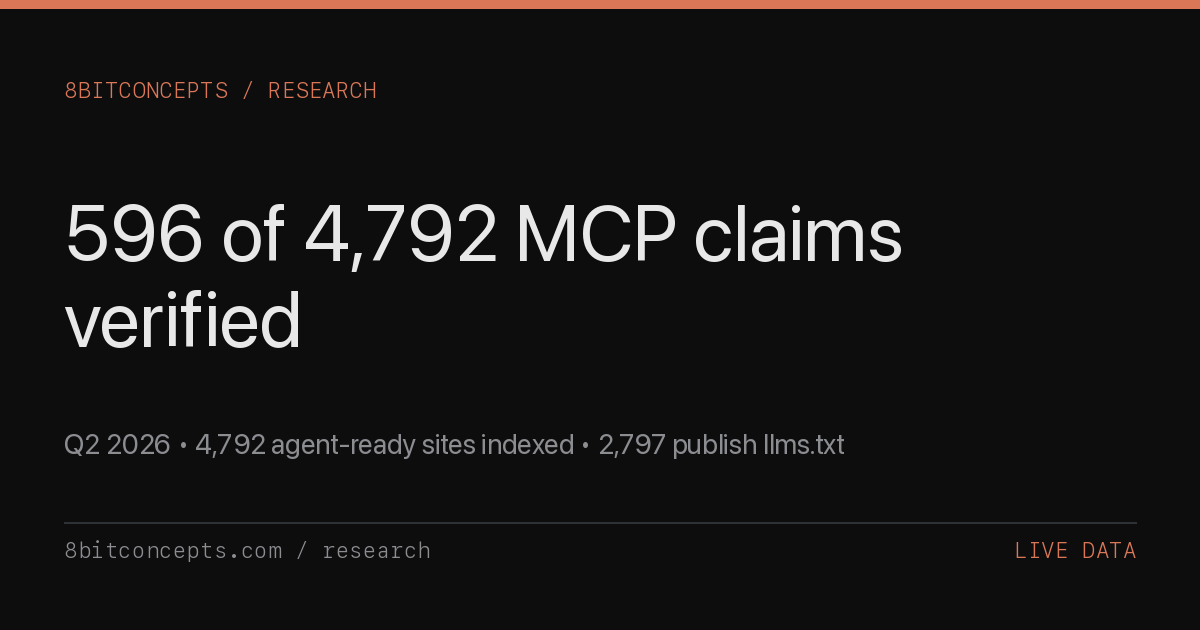
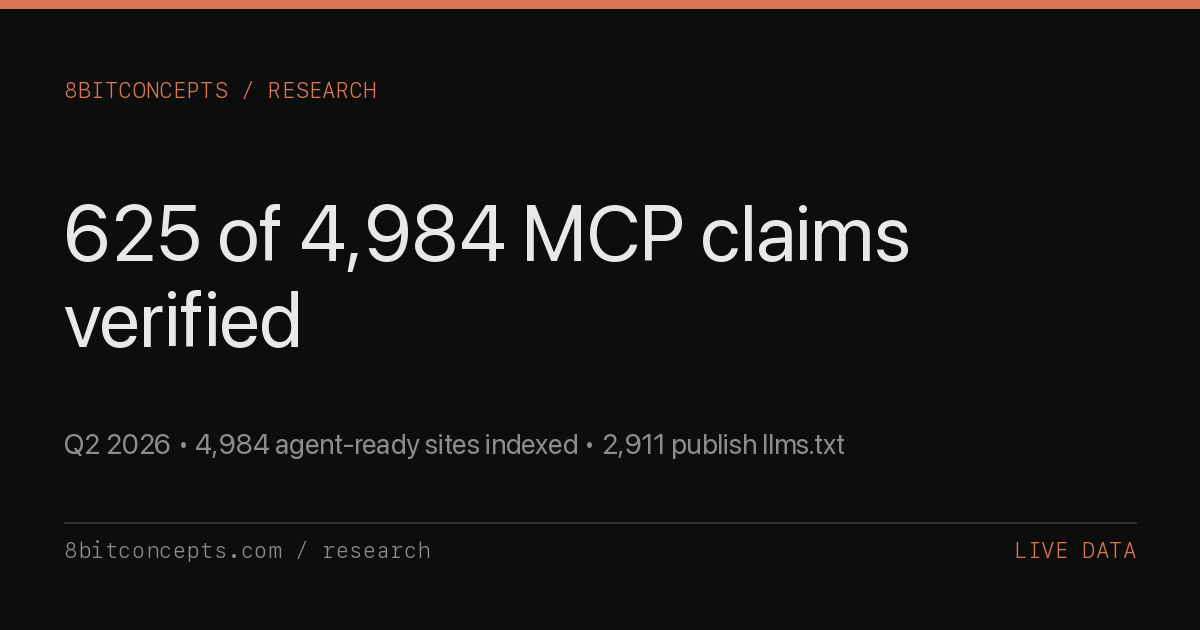
mcp-health: auto-regenerate 2026-08-10

Changed region(s): [[0.0308, 0.3016, 0.7708, 0.4222], [0.185, 0.6635, 0.5858, 0.7238], [0.6167, 0.6937, 0.6783, 0.7238]]

diff --git a/research/q2-2026-mcp-ecosystem-health.html b/research/q2-2026-mcp-ecosystem-health.html
@@ -5,11 +5,11 @@
   <meta name="viewport" content="width=device-width, initial-scale=1.0" />
   <meta name="referrer" content="strict-origin-when-cross-origin" />
   <meta name="color-scheme" content="dark light" />
-  <meta name="last-updated" content="2026-08-03" />
+  <meta name="last-updated" content="2026-08-10" />
   <title>Q2 2026 MCP Ecosystem Health -- 8bitconcepts</title>
-  <meta name="description" content="Live MCP ecosystem health: 4,792 agent-ready sites indexed, 596 (12.4%) MCP-verified via JSON-RPC handshake. 2,797 publish llms.txt, 730 publish OpenAPI. Category breakdown, newly-indexed servers, gaps." />
+  <meta name="description" content="Live MCP ecosystem health: 4,984 agent-ready sites indexed, 625 (12.5%) MCP-verified via JSON-RPC handshake. 2,911 publish llms.txt, 770 publish OpenAPI. Category breakdown, newly-indexed servers, gaps." />
   <meta property="og:title" content="Q2 2026 MCP Ecosystem Health -- 8bitconcepts" />
-  <meta property="og:description" content="596 of 4,792 indexed agent-ready sites (12.4%) pass a live JSON-RPC handshake. Most MCP-positive candidates do not verify as working endpoints. Category breakdown + newly-verified servers from NothingHumanSearch." />
+  <meta property="og:description" content="625 of 4,984 indexed agent-ready sites (12.5%) pass a live JSON-RPC handshake. Most MCP-positive candidates do not verify as working endpoints. Category breakdown + newly-verified servers from NothingHumanSearch." />
   <meta property="og:type" content="article" />
   <meta property="og:url" content="https://8bitconcepts.com/research/q2-2026-mcp-ecosystem-health.html" />
   <meta property="og:image" content="https://8bitconcepts.com/research/og/q2-2026-mcp-ecosystem-health.png" />
@@ -17,7 +17,7 @@
   <meta property="og:image:height" content="630" />
   <meta name="twitter:card" content="summary_large_image" />
   <meta name="twitter:title" content="Q2 2026 MCP Ecosystem Health" />
-  <meta name="twitter:description" content="MCP reality check: 596/4,792 sites survive a real JSON-RPC handshake. Live data from nothumansearch.ai, 2026-08-03." />
+  <meta name="twitter:description" content="MCP reality check: 625/4,984 sites survive a real JSON-RPC handshake. Live data from nothumansearch.ai, 2026-08-10." />
   <meta name="twitter:image" content="https://8bitconcepts.com/research/og/q2-2026-mcp-ecosystem-health.png" />
   <link rel="canonical" href="https://8bitconcepts.com/research/q2-2026-mcp-ecosystem-health.html" />
   <link rel="preconnect" href="https://fonts.googleapis.com" />
@@ -434,10 +434,10 @@
     "@context": "https://schema.org",
     "@type": "Article",
     "headline": "Q2 2026 MCP Ecosystem Health",
-    "description": "Live MCP ecosystem audit from NothingHumanSearch: 4,792 agent-ready sites indexed, only 596 (12.4%) MCP-verified via live JSON-RPC handshake. Category breakdown, top MCP servers, newly-indexed this week, and gaps in regulated verticals.",
+    "description": "Live MCP ecosystem audit from NothingHumanSearch: 4,984 agent-ready sites indexed, only 625 (12.5%) MCP-verified via live JSON-RPC handshake. Category breakdown, top MCP servers, newly-indexed this week, and gaps in regulated verticals.",
     "url": "https://8bitconcepts.com/research/q2-2026-mcp-ecosystem-health.html",
     "datePublished": "2026-04-17",
-    "dateModified": "2026-08-03",
+    "dateModified": "2026-08-10",
     "author": {"@type": "Organization", "name": "8bitconcepts", "url": "https://8bitconcepts.com"},
     "publisher": {"@type": "Organization", "name": "8bitconcepts", "url": "https://8bitconcepts.com"},
     "image": "https://8bitconcepts.com/research/og/q2-2026-mcp-ecosystem-health.png",
@@ -477,10 +477,10 @@
 
     <h1>Q2 2026 MCP Ecosystem Health</h1>
 
-    <p class="subtitle">As of 2026-08-03, 4,792 agent-ready sites are indexed on NothingHumanSearch, but only 596 (12.4%) survive a real JSON-RPC handshake to their /mcp endpoint. The rest did not verify as working MCP endpoints in this crawl. Live data pulled from <a href="https://nothumansearch.ai/digest.json">nothumansearch.ai/digest.json</a>.</p>
+    <p class="subtitle">As of 2026-08-10, 4,984 agent-ready sites are indexed on NothingHumanSearch, but only 625 (12.5%) survive a real JSON-RPC handshake to their /mcp endpoint. The rest did not verify as working MCP endpoints in this crawl. Live data pulled from <a href="https://nothumansearch.ai/digest.json">nothumansearch.ai/digest.json</a>.</p>
 
     <div class="meta">
-      <span class="meta-date">2026-08-03</span>
+      <span class="meta-date">2026-08-10</span>
       <span class="meta-tag">Live Data</span>
       <span class="meta-read">~850 words</span>
     </div>
@@ -489,19 +489,19 @@
 
       <h2>Executive summary</h2>
 
-      <p>NothingHumanSearch has been crawling the web for agent-readiness signals since launch, and the numbers tell a consistent story about the gap between claiming MCP support and shipping it. As of 2026-08-03 the index holds 4,792 sites with at least one agent-discovery signal (llms.txt, ai-plugin.json, OpenAPI, or an MCP manifest). Of those, 596 &mdash; 12.4% &mdash; pass a live JSON-RPC probe against their declared /mcp endpoint. The remaining 4,196 sites (87.6%) did not verify as working MCP endpoints in this crawl. That is not evidence of intent. It means the crawler found an MCP-positive or agent-discovery signal, then the live probe could not complete the <code>initialize</code> round-trip.</p>
+      <p>NothingHumanSearch has been crawling the web for agent-readiness signals since launch, and the numbers tell a consistent story about the gap between claiming MCP support and shipping it. As of 2026-08-10 the index holds 4,984 sites with at least one agent-discovery signal (llms.txt, ai-plugin.json, OpenAPI, or an MCP manifest). Of those, 625 &mdash; 12.5% &mdash; pass a live JSON-RPC probe against their declared /mcp endpoint. The remaining 4,359 sites (87.5%) did not verify as working MCP endpoints in this crawl. That is not evidence of intent. It means the crawler found an MCP-positive or agent-discovery signal, then the live probe could not complete the <code>initialize</code> round-trip.</p>
 
       <div class="stat-row">
         <div class="stat-box">
-          <div class="stat-num">4,792</div>
-          <div class="stat-label">agent-ready sites indexed on NothingHumanSearch (2026-08-03)</div>
+          <div class="stat-num">4,984</div>
+          <div class="stat-label">agent-ready sites indexed on NothingHumanSearch (2026-08-10)</div>
         </div>
         <div class="stat-box">
-          <div class="stat-num">596</div>
-          <div class="stat-label">pass a live JSON-RPC MCP handshake &mdash; 12.4% of the index</div>
+          <div class="stat-num">625</div>
+          <div class="stat-label">pass a live JSON-RPC MCP handshake &mdash; 12.5% of the index</div>
         </div>
         <div class="stat-box">
-          <div class="stat-num">2,797</div>
+          <div class="stat-num">2,911</div>
           <div class="stat-label">publish <code>llms.txt</code> &mdash; 58.4% of the index</div>
         </div>
       </div>
@@ -510,7 +510,7 @@
 
       <p>Static scanners &mdash; the ones that produce most of the MCP directory listings you see today &mdash; treat a string match for <code>mcp</code> in <code>llms.txt</code> or a link to <code>/.well-known/mcp.json</code> as a positive signal. That's how you end up with directories claiming 10,000+ MCP servers when the actual live count is smaller by an order of magnitude. A real check has to open a connection, send <code>{"method": "initialize"}</code>, wait for a protocol handshake, and confirm the server responds with a valid <code>result</code> block citing a <code>protocolVersion</code>. Anything short of that is a citation, not an implementation.</p>
 
-      <p>NHS's <code>verify_mcp</code> tool (published as part of the NHS MCP server at <a href="https://nothumansearch.ai/mcp">nothumansearch.ai/mcp</a>) does exactly this live-probe for any URL you hand it. When we recrawled the full index in April 2026 with the probe turned on, the verified-MCP count stayed stable around 596 even as the total indexed population kept climbing. The gap between MCP-positive discovery surfaces and endpoints that complete a live handshake is widening, not narrowing &mdash; which is the opposite of what the marketing cycle would have you believe.</p>
+      <p>NHS's <code>verify_mcp</code> tool (published as part of the NHS MCP server at <a href="https://nothumansearch.ai/mcp">nothumansearch.ai/mcp</a>) does exactly this live-probe for any URL you hand it. When we recrawled the full index in April 2026 with the probe turned on, the verified-MCP count stayed stable around 625 even as the total indexed population kept climbing. The gap between MCP-positive discovery surfaces and endpoints that complete a live handshake is widening, not narrowing &mdash; which is the opposite of what the marketing cycle would have you believe.</p>
 
       <p>This matters for anyone building an agent. If you rely on a static MCP directory to decide which tools your agent should discover at runtime, you will waste connections and context tokens on dead endpoints. The 90%+ unverified cohort is not proof of bad faith &mdash; it can include stale docs, misconfigured reverse proxies, auth walls, wrong endpoint paths, scanner false positives, and manifests that reference endpoints the author has not wired up. But for an autonomous agent, the failure mode is the same: a call that eats latency, fails, and doesn't advance the task.</p>
 
@@ -528,14 +528,14 @@
           </tr>
         </thead>
         <tbody>
-          <tr><td><a href="https://nothumansearch.ai/site/eqbuilder.dev">eqbuilder.dev</a></td><td>Marz Greta-Lock Network</td><td class="num">100</td><td>llms.txt, ai-plugin.json, OpenAPI, structured API, MCP handshake, AI-friendly robots.txt, Schema.org</td></tr>
           <tr><td><a href="https://nothumansearch.ai/site/agentdomain.xyz">agentdomain.xyz</a></td><td>Agent Community</td><td class="num">100</td><td>llms.txt, ai-plugin.json, OpenAPI, structured API, MCP handshake, AI-friendly robots.txt, Schema.org</td></tr>
+          <tr><td><a href="https://nothumansearch.ai/site/dexi.net">dexi.net</a></td><td>Dexi</td><td class="num">100</td><td>llms.txt, ai-plugin.json, OpenAPI, structured API, MCP handshake, AI-friendly robots.txt, Schema.org</td></tr>
+          <tr><td><a href="https://nothumansearch.ai/site/compliapi.com">compliapi.com</a></td><td>CompliAPI</td><td class="num">100</td><td>llms.txt, ai-plugin.json, OpenAPI, structured API, MCP handshake, AI-friendly robots.txt, Schema.org</td></tr>
+          <tr><td><a href="https://nothumansearch.ai/site/eqbuilder.dev">eqbuilder.dev</a></td><td>eqbuilder.dev</td><td class="num">100</td><td>llms.txt, ai-plugin.json, OpenAPI, structured API, MCP handshake, AI-friendly robots.txt, Schema.org</td></tr>
           <tr><td><a href="https://nothumansearch.ai/site/shieldz.cash">shieldz.cash</a></td><td>Crypto Payment Gateway, non-custodial, $0 fees · Shieldz</td><td class="num">100</td><td>llms.txt, ai-plugin.json, OpenAPI, structured API, MCP handshake, AI-friendly robots.txt, Schema.org</td></tr>
           <tr><td><a href="https://nothumansearch.ai/site/newmexicoliteracyproject.org">newmexicoliteracyproject.org</a></td><td>Donate Books in Albuquerque</td><td class="num">100</td><td>llms.txt, ai-plugin.json, OpenAPI, structured API, MCP handshake, AI-friendly robots.txt, Schema.org</td></tr>
           <tr><td><a href="https://nothumansearch.ai/site/hlido.eu">hlido.eu</a></td><td>Hlido &amp;middot; Independent AI agent trust scores &amp; reliability reviews</td><td class="num">100</td><td>llms.txt, ai-plugin.json, OpenAPI, structured API, MCP handshake, AI-friendly robots.txt, Schema.org</td></tr>
           <tr><td><a href="https://nothumansearch.ai/site/agentshare.dev">agentshare.dev</a></td><td>AgentShare</td><td class="num">100</td><td>llms.txt, ai-plugin.json, OpenAPI, structured API, MCP handshake, AI-friendly robots.txt, Schema.org</td></tr>
-          <tr><td><a href="https://nothumansearch.ai/site/primitive.dev">primitive.dev</a></td><td>primitive.dev: email for AI agents</td><td class="num">100</td><td>llms.txt, ai-plugin.json, OpenAPI, structured API, MCP handshake, AI-friendly robots.txt, Schema.org</td></tr>
-          <tr><td><a href="https://nothumansearch.ai/site/gitdealflow.com">gitdealflow.com</a></td><td>GitDealFlow</td><td class="num">100</td><td>llms.txt, ai-plugin.json, OpenAPI, structured API, MCP handshake, AI-friendly robots.txt, Schema.org</td></tr>
         </tbody>
       </table>
 
@@ -566,7 +566,7 @@
 
       <h2>Top categories by indexed count</h2>
 
-      <p>Across verified MCP servers and the broader agent-ready population, the category distribution is heavily concentrated. <strong>Developer tools</strong> alone accounts for 1,467 sites (30.6% of the index). AI-native tools follow closely &mdash; unsurprising given that MCP emerged from the AI-tools ecosystem. After that, category density drops off a cliff.</p>
+      <p>Across verified MCP servers and the broader agent-ready population, the category distribution is heavily concentrated. <strong>Developer tools</strong> alone accounts for 1,527 sites (30.6% of the index). AI-native tools follow closely &mdash; unsurprising given that MCP emerged from the AI-tools ecosystem. After that, category density drops off a cliff.</p>
 
       <table class="data-table">
         <thead>
@@ -577,15 +577,15 @@
           </tr>
         </thead>
         <tbody>
-          <tr><td>Developer tools</td><td class="num">1,467</td><td class="num">30.6%</td></tr>
-          <tr><td>AI-native tools</td><td class="num">1,020</td><td class="num">21.3%</td></tr>
-          <tr><td>Data / analytics</td><td class="num">437</td><td class="num">9.1%</td></tr>
-          <tr><td>Finance / fintech</td><td class="num">213</td><td class="num">4.4%</td></tr>
-          <tr><td>Productivity</td><td class="num">169</td><td class="num">3.5%</td></tr>
-          <tr><td>E-commerce</td><td class="num">156</td><td class="num">3.3%</td></tr>
-          <tr><td>Communication</td><td class="num">141</td><td class="num">2.9%</td></tr>
-          <tr><td>Security</td><td class="num">120</td><td class="num">2.5%</td></tr>
-          <tr><td>Health / medical</td><td class="num">60</td><td class="num">1.3%</td></tr>
+          <tr><td>Developer tools</td><td class="num">1,527</td><td class="num">30.6%</td></tr>
+          <tr><td>AI-native tools</td><td class="num">1,061</td><td class="num">21.3%</td></tr>
+          <tr><td>Data / analytics</td><td class="num">459</td><td class="num">9.2%</td></tr>
+          <tr><td>Finance / fintech</td><td class="num">216</td><td class="num">4.3%</td></tr>
+          <tr><td>Productivity</td><td class="num">172</td><td class="num">3.5%</td></tr>
+          <tr><td>E-commerce</td><td class="num">164</td><td class="num">3.3%</td></tr>
+          <tr><td>Communication</td><td class="num">148</td><td class="num">3.0%</td></tr>
+          <tr><td>Security</td><td class="num">126</td><td class="num">2.5%</td></tr>
+          <tr><td>Health / medical</td><td class="num">61</td><td class="num">1.2%</td></tr>
           <tr><td>Jobs / hiring</td><td class="num">29</td><td class="num">0.6%</td></tr>
         </tbody>
       </table>
@@ -604,22 +604,22 @@
           </tr>
         </thead>
         <tbody>
-          <tr><td><a href="https://nothumansearch.ai/site/eqbuilder.dev">eqbuilder.dev</a></td><td>Marz Greta-Lock Network</td><td>Developer tools</td><td class="num">100</td></tr>
-          <tr><td><a href="https://nothumansearch.ai/site/shieldz.cash">shieldz.cash</a></td><td>Crypto Payment Gateway, non-custodial, $0 fees · Shieldz</td><td>Finance / fintech</td><td class="num">100</td></tr>
-          <tr><td><a href="https://nothumansearch.ai/site/newmexicoliteracyproject.org">newmexicoliteracyproject.org</a></td><td>Donate Books in Albuquerque</td><td>Uncategorized</td><td class="num">100</td></tr>
-          <tr><td><a href="https://nothumansearch.ai/site/hlido.eu">hlido.eu</a></td><td>Hlido &amp;middot; Independent AI agent trust scores &amp; reliability reviews</td><td>AI-native tools</td><td class="num">100</td></tr>
-          <tr><td><a href="https://nothumansearch.ai/site/agentshare.dev">agentshare.dev</a></td><td>AgentShare</td><td>AI-native tools</td><td class="num">100</td></tr>
-          <tr><td><a href="https://nothumansearch.ai/site/primitive.dev">primitive.dev</a></td><td>primitive.dev: email for AI agents</td><td>Developer tools</td><td class="num">100</td></tr>
-          <tr><td><a href="https://nothumansearch.ai/site/gitdealflow.com">gitdealflow.com</a></td><td>GitDealFlow</td><td>Uncategorized</td><td class="num">100</td></tr>
-          <tr><td><a href="https://nothumansearch.ai/site/dominion-observatory.sgdata.workers.dev">dominion-observatory.sgdata.workers.dev</a></td><td>Dominion Observatory</td><td>Developer tools</td><td class="num">100</td></tr>
-          <tr><td><a href="https://nothumansearch.ai/site/x711.io">x711.io</a></td><td>x711</td><td>AI-native tools</td><td class="num">100</td></tr>
-          <tr><td><a href="https://nothumansearch.ai/site/agentmuseum.org">agentmuseum.org</a></td><td>The Agent Museum</td><td>Uncategorized</td><td class="num">100</td></tr>
+          <tr><td><a href="https://nothumansearch.ai/site/dexi.net">dexi.net</a></td><td>Dexi</td><td>Data / analytics</td><td class="num">100</td></tr>
+          <tr><td><a href="https://nothumansearch.ai/site/compliapi.com">compliapi.com</a></td><td>CompliAPI</td><td>Security</td><td class="num">100</td></tr>
+          <tr><td><a href="https://nothumansearch.ai/site/mostexpensivewatches.net">mostexpensivewatches.net</a></td><td>MostExpensiveWatches</td><td>Uncategorized</td><td class="num">95</td></tr>
+          <tr><td><a href="https://nothumansearch.ai/site/simulator.company">simulator.company</a></td><td>Simulator.Company</td><td>Productivity</td><td class="num">80</td></tr>
+          <tr><td><a href="https://nothumansearch.ai/site/dexpaprika.com">dexpaprika.com</a></td><td>DEX Tracker: Explore liquidity pools and DEXes</td><td>Finance / fintech</td><td class="num">80</td></tr>
+          <tr><td><a href="https://nothumansearch.ai/site/localgov.jp">localgov.jp</a></td><td>LocalGov.jp</td><td>Uncategorized</td><td class="num">80</td></tr>
+          <tr><td><a href="https://nothumansearch.ai/site/allmcps.com">allmcps.com</a></td><td>AllMCPs</td><td>Developer tools</td><td class="num">80</td></tr>
+          <tr><td><a href="https://nothumansearch.ai/site/vaaya.ai">vaaya.ai</a></td><td>Vaaya: Turn your GitHub profile into Credit</td><td>AI-native tools</td><td class="num">75</td></tr>
+          <tr><td><a href="https://nothumansearch.ai/site/stormy.ai">stormy.ai</a></td><td>Stormy</td><td>AI-native tools</td><td class="num">75</td></tr>
+          <tr><td><a href="https://nothumansearch.ai/site/synapselayer.org">synapselayer.org</a></td><td>Synapse Layer</td><td>Developer tools</td><td class="num">75</td></tr>
         </tbody>
       </table>
 
       <h2>Gaps in the ecosystem</h2>
 
-      <p>The gap that matters for builders: regulated high-value verticals are still thinly represented. Finance has 213 sites, health has 60, and education has 20. These are the same verticals where agents would deliver the most leverage per call &mdash; underwriting assistance, clinical documentation, degree-audit lookups &mdash; and they are the verticals where the MCP ecosystem is the least mature. Jobs (29) and news (10) round out the long tail. If you are deciding where to ship an MCP server and you want reach-per-server rather than defensibility through a crowd, the signal is clear: any vertical below 120 indexed sites is green field.</p>
+      <p>The gap that matters for builders: regulated high-value verticals are still thinly represented. Finance has 216 sites, health has 61, and education has 20. These are the same verticals where agents would deliver the most leverage per call &mdash; underwriting assistance, clinical documentation, degree-audit lookups &mdash; and they are the verticals where the MCP ecosystem is the least mature. Jobs (29) and news (10) round out the long tail. If you are deciding where to ship an MCP server and you want reach-per-server rather than defensibility through a crowd, the signal is clear: any vertical below 126 indexed sites is green field.</p>
 
       <div class="callout">
         <p>The pattern is consistent across every index we maintain: the teams that ship real MCP endpoints are a small fraction of the teams that claim MCP support. For builders, that gap is an opportunity &mdash; the verticals that are thin today will not stay thin for long.</p>
@@ -629,7 +629,7 @@
 
       <p>NHS crawls submitted URLs and auto-discovered candidates from public sources (awesome-mcp-servers, PulseMCP, llmstxt.site, and a handful of curated feeds), then scores each site against seven weighted signals: <code>llms.txt</code> present and parseable; <code>ai-plugin.json</code> at <code>/.well-known/</code>; an OpenAPI or AsyncAPI spec at a discoverable path; an MCP manifest; a live JSON-RPC MCP handshake; documented rate-limit and auth headers; and an accessible structured API response. Sites are re-crawled weekly. Scores range 0-100; any score above 75 corresponds to a site that an autonomous agent can realistically integrate without human help. The full probe methodology is open-source at <a href="https://nothumansearch.ai/methodology">nothumansearch.ai/methodology</a>.</p>
 
-      <p>Weekly submission volume is running at 22 candidates for the week starting 2026-07-27, most from autonomous discovery agents rather than human submissions.</p>
+      <p>Weekly submission volume is running at 33 candidates for the week starting 2026-08-03, most from autonomous discovery agents rather than human submissions.</p>
 
       <p><strong>Download raw data:</strong> The MCP ecosystem health dataset is mirrored as a public gist &mdash; <a href="https://gist.githubusercontent.com/unitedideas/c93bd6d9984729070c59b2ea6c6b301b/raw/mcp-ecosystem-health.csv">CSV</a> &middot; <a href="https://gist.githubusercontent.com/unitedideas/c93bd6d9984729070c59b2ea6c6b301b/raw/mcp-ecosystem-health.md">Markdown</a> &middot; <a href="https://gist.github.com/unitedideas/c93bd6d9984729070c59b2ea6c6b301b">view on GitHub</a>. Auto-updated every weekly regeneration, canonical raw URLs are stable across revisions.</p>
 
@@ -683,7 +683,7 @@
     <div class="footnotes">
       <h4>Sources</h4>
       <ol>
-        <li>NothingHumanSearch &mdash; <a href="https://nothumansearch.ai/digest.json">/digest.json</a>, pulled 2026-08-03T15:15:01Z. Public unauthenticated endpoint. Backing index: 4,792 agent-ready sites / 596 MCP-verified via JSON-RPC handshake.</li>
+        <li>NothingHumanSearch &mdash; <a href="https://nothumansearch.ai/digest.json">/digest.json</a>, pulled 2026-08-10T15:15:04Z. Public unauthenticated endpoint. Backing index: 4,984 agent-ready sites / 625 MCP-verified via JSON-RPC handshake.</li>
         <li>NothingHumanSearch &mdash; <a href="https://nothumansearch.ai/mcp">/mcp</a>, live MCP server exposing <code>verify_mcp</code>, <code>search</code>, <code>get_site</code>, <code>list_categories</code>, <code>get_top_sites</code>, and four more tools over JSON-RPC 2.0.</li>
         <li>NothingHumanSearch &mdash; <a href="https://nothumansearch.ai/methodology">/methodology</a>, open-source scoring rubric with 7 weighted signals.</li>
         <li>Verification means a TCP connection + HTTP POST to the declared <code>/mcp</code> endpoint with a JSON-RPC 2.0 <code>initialize</code> request, followed by a valid <code>result</code> response containing a <code>protocolVersion</code>. Sites that host a manifest but fail the handshake are counted in the index total but not in the MCP-verified total.</li>

diff --git a/marketing/mcp-milestone-posts.md b/marketing/mcp-milestone-posts.md
@@ -1,23 +1,23 @@
 # MCP Verification Milestone Posts
 
-Generated from live NothingHumanSearch digest on 2026-04-28.
+Generated from live NothingHumanSearch digest on 2026-08-10.
 
-Current verified share: 417 / 7,118 (5.9%).
+Current verified share: 625 / 4,984 (12.5%).
 Next milestone: 20%.
 
 Use these when the live digest crosses 20%, 50%, 75%, and 100% verified MCP handshakes. Do not post until the status line says READY.
 
 ### 20% milestone
 
-Status: waiting: 1,007 more verified MCP servers needed
-Trigger: 1,424 verified MCP servers out of 7,118 current indexed claims.
-Current gap: 1,007.
+Status: waiting: 372 more verified MCP servers needed
+Trigger: 997 verified MCP servers out of 4,984 current indexed claims.
+Current gap: 372.
 
 Long post:
 
 20% of indexed MCP claims now pass a live JSON-RPC handshake.
 
-NothingHumanSearch is now at 417 verified MCP servers out of 7,118 indexed claims (5.9%).
+NothingHumanSearch is now at 625 verified MCP servers out of 4,984 indexed claims (12.5%).
 
 Verification here means a real HTTP JSON-RPC probe, not a string match:
 
@@ -25,30 +25,30 @@ Verification here means a real HTTP JSON-RPC probe, not a string match:
 2. Send an initialize request.
 3. Confirm a valid protocolVersion response.
 
-The same crawl sees 5,087 sites publishing llms.txt and 511 publishing OpenAPI, which is the shape of the current agentic web: lots of context files, fewer programmatic surfaces, and fewer still that complete the MCP handshake.
+The same crawl sees 2,911 sites publishing llms.txt and 770 publishing OpenAPI, which is the shape of the current agentic web: lots of context files, fewer programmatic surfaces, and fewer still that complete the MCP handshake.
 
 Live dataset: https://8bitconcepts.com/research/q2-2026-mcp-ecosystem-health.html
 Raw data: https://gist.github.com/unitedideas/c93bd6d9984729070c59b2ea6c6b301b
 
 Short post:
 
-20% milestone: 417 of 7,118 indexed MCP claims now pass a live JSON-RPC handshake.
+20% milestone: 625 of 4,984 indexed MCP claims now pass a live JSON-RPC handshake.
 
-llms.txt: 5,087
-OpenAPI: 511
+llms.txt: 2,911
+OpenAPI: 770
 Methodology + raw data: https://8bitconcepts.com/research/q2-2026-mcp-ecosystem-health.html
 
 ### 50% milestone
 
-Status: waiting: 3,142 more verified MCP servers needed
-Trigger: 3,559 verified MCP servers out of 7,118 current indexed claims.
-Current gap: 3,142.
+Status: waiting: 1,867 more verified MCP servers needed
+Trigger: 2,492 verified MCP servers out of 4,984 current indexed claims.
+Current gap: 1,867.
 
 Long post:
 
 50% of indexed MCP claims now pass a live JSON-RPC handshake.
 
-NothingHumanSearch is now at 417 verified MCP servers out of 7,118 indexed claims (5.9%).
+NothingHumanSearch is now at 625 verified MCP servers out of 4,984 indexed claims (12.5%).
 
 Verification here means a real HTTP JSON-RPC probe, not a string match:
 
@@ -56,30 +56,30 @@ Verification here means a real HTTP JSON-RPC probe, not a string match:
 2. Send an initialize request.
 3. Confirm a valid protocolVersion response.
 
-The same crawl sees 5,087 sites publishing llms.txt and 511 publishing OpenAPI, which is the shape of the current agentic web: lots of context files, fewer programmatic surfaces, and fewer still that complete the MCP handshake.
+The same crawl sees 2,911 sites publishing llms.txt and 770 publishing OpenAPI, which is the shape of the current agentic web: lots of context files, fewer programmatic surfaces, and fewer still that complete the MCP handshake.
 
 Live dataset: https://8bitconcepts.com/research/q2-2026-mcp-ecosystem-health.html
 Raw data: https://gist.github.com/unitedideas/c93bd6d9984729070c59b2ea6c6b301b
 
 Short post:
 
-50% milestone: 417 of 7,118 indexed MCP claims now pass a live JSON-RPC handshake.
+50% milestone: 625 of 4,984 indexed MCP claims now pass a live JSON-RPC handshake.
 
-llms.txt: 5,087
-OpenAPI: 511
+llms.txt: 2,911
+OpenAPI: 770
 Methodology + raw data: https://8bitconcepts.com/research/q2-2026-mcp-ecosystem-health.html
 
 ### 75% milestone
 
-Status: waiting: 4,922 more verified MCP servers needed
-Trigger: 5,339 verified MCP servers out of 7,118 current indexed claims.
-Current gap: 4,922.
+Status: waiting: 3,113 more verified MCP servers needed
+Trigger: 3,738 verified MCP servers out of 4,984 current indexed claims.
+Current gap: 3,113.
 
 Long post:
 
 75% of indexed MCP claims now pass a live JSON-RPC handshake.
 
-NothingHumanSearch is now at 417 verified MCP servers out of 7,118 indexed claims (5.9%).
+NothingHumanSearch is now at 625 verified MCP servers out of 4,984 indexed claims (12.5%).
 
 Verification here means a real HTTP JSON-RPC probe, not a string match:
 
@@ -87,30 +87,30 @@ Verification here means a real HTTP JSON-RPC probe, not a string match:
 2. Send an initialize request.
 3. Confirm a valid protocolVersion response.
 
-The same crawl sees 5,087 sites publishing llms.txt and 511 publishing OpenAPI, which is the shape of the current agentic web: lots of context files, fewer programmatic surfaces, and fewer still that complete the MCP handshake.
+The same crawl sees 2,911 sites publishing llms.txt and 770 publishing OpenAPI, which is the shape of the current agentic web: lots of context files, fewer programmatic surfaces, and fewer still that complete the MCP handshake.
 
 Live dataset: https://8bitconcepts.com/research/q2-2026-mcp-ecosystem-health.html
 Raw data: https://gist.github.com/unitedideas/c93bd6d9984729070c59b2ea6c6b301b
 
 Short post:
 
-75% milestone: 417 of 7,118 indexed MCP claims now pass a live JSON-RPC handshake.
+75% milestone: 625 of 4,984 indexed MCP claims now pass a live JSON-RPC handshake.
 
-llms.txt: 5,087
-OpenAPI: 511
+llms.txt: 2,911
+OpenAPI: 770
 Methodology + raw data: https://8bitconcepts.com/research/q2-2026-mcp-ecosystem-health.html
 
 ### 100% milestone
 
-Status: waiting: 6,701 more verified MCP servers needed
-Trigger: 7,118 verified MCP servers out of 7,118 current indexed claims.
-Current gap: 6,701.
+Status: waiting: 4,359 more verified MCP servers needed
+Trigger: 4,984 verified MCP servers out of 4,984 current indexed claims.
+Current gap: 4,359.
 
 Long post:
 
 100% of indexed MCP claims now pass a live JSON-RPC handshake.
 
-NothingHumanSearch is now at 417 verified MCP servers out of 7,118 indexed claims (5.9%).
+NothingHumanSearch is now at 625 verified MCP servers out of 4,984 indexed claims (12.5%).
 
 Verification here means a real HTTP JSON-RPC probe, not a string match:
 
@@ -118,16 +118,16 @@ Verification here means a real HTTP JSON-RPC probe, not a string match:
 2. Send an initialize request.
 3. Confirm a valid protocolVersion response.
 
-The same crawl sees 5,087 sites publishing llms.txt and 511 publishing OpenAPI, which is the shape of the current agentic web: lots of context files, fewer programmatic surfaces, and fewer still that complete the MCP handshake.
+The same crawl sees 2,911 sites publishing llms.txt and 770 publishing OpenAPI, which is the shape of the current agentic web: lots of context files, fewer programmatic surfaces, and fewer still that complete the MCP handshake.
 
 Live dataset: https://8bitconcepts.com/research/q2-2026-mcp-ecosystem-health.html
 Raw data: https://gist.github.com/unitedideas/c93bd6d9984729070c59b2ea6c6b301b
 
 Short post:
 
-100% milestone: 417 of 7,118 indexed MCP claims now pass a live JSON-RPC handshake.
+100% milestone: 625 of 4,984 indexed MCP claims now pass a live JSON-RPC handshake.
 
-llms.txt: 5,087
-OpenAPI: 511
+llms.txt: 2,911
+OpenAPI: 770
 Methodology + raw data: https://8bitconcepts.com/research/q2-2026-mcp-ecosystem-health.html
 
